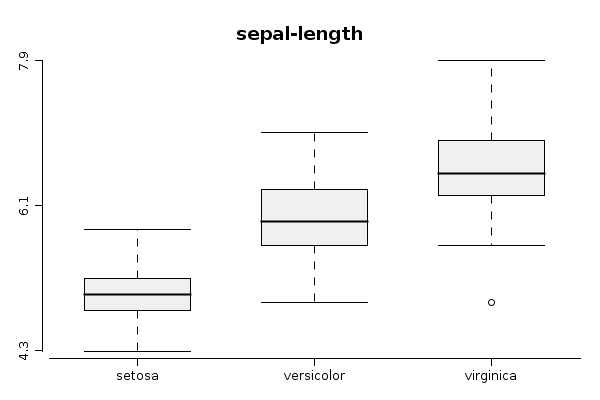
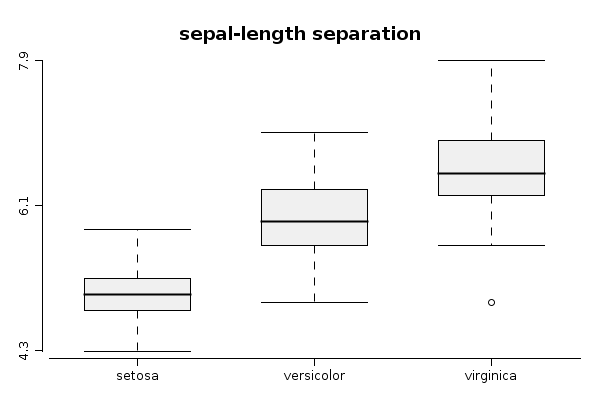
graphics manual page - scatter xy points

Changed region(s): [[0.3, 0.06, 0.72, 0.12]]

diff --git a/src/rapaio/graphics/opt/GOpts.java b/src/rapaio/graphics/opt/GOpts.java
@@ -53,6 +53,7 @@ public class GOpts implements Serializable {
         DEFAULTS.bins = gOpts -> -1;
         DEFAULTS.prob = gOpts -> false;
         DEFAULTS.points = gOpts -> 256;
+        DEFAULTS.labels = gOpts -> new String[]{""};
     }
 
     GOpts parent;
@@ -66,6 +67,7 @@ public class GOpts implements Serializable {
     SFunction<GOpts, Integer> binsDefault;
     SFunction<GOpts, Boolean> probDefault;
     SFunction<GOpts, Integer> pointsDefault;
+    SFunction<GOpts, String[]> labelsDefault;
 
     SFunction<GOpts, ColorPalette> palette;
     SFunction<GOpts, Color[]> color;
@@ -76,6 +78,7 @@ public class GOpts implements Serializable {
     SFunction<GOpts, Integer> bins;
     SFunction<GOpts, Boolean> prob;
     SFunction<GOpts, Integer> points;
+    SFunction<GOpts, String[]> labels;
 
     public GOpts apply(GOpt... options) {
         Arrays.stream(options).forEach(o -> o.apply(this));
@@ -92,7 +95,8 @@ public class GOpts implements Serializable {
                 opt -> opt.setAlpha(alpha),
                 opt -> opt.setBins(bins),
                 opt -> opt.setProb(prob),
-                opt -> opt.setPoints(points)
+                opt -> opt.setPoints(points),
+                opt -> opt.setLabels(labels)
         };
     }
 
@@ -337,6 +341,35 @@ public class GOpts implements Serializable {
         return null;
     }
 
+    public String[] getLabels() {
+        SFunction<GOpts, String[]> c = getUpLabels();
+        if (c == null)
+            c = getUpLabelsDefault();
+        if (c == null)
+            c = DEFAULTS.labels;
+        return c.apply(this);
+    }
+
+    public void setLabels(SFunction<GOpts, String[]> labels) {
+        this.labels = labels;
+    }
+
+    protected SFunction<GOpts, String[]> getUpLabels() {
+        if (labels != null)
+            return labels;
+        if (parent != null)
+            return parent.getUpLabels();
+        return null;
+    }
+
+    protected SFunction<GOpts, String[]> getUpLabelsDefault() {
+        if (labelsDefault != null)
+            return labelsDefault;
+        if (parent != null)
+            return parent.getUpLabelsDefault();
+        return null;
+    }
+
     public void setColor(SFunction<GOpts, Color[]> color) {
         this.color = color;
     }
@@ -383,5 +416,9 @@ public class GOpts implements Serializable {
 
     public void setPointsDefault(SFunction<GOpts, Integer> pointsDefault) {
         this.pointsDefault = pointsDefault;
+    }
+
+    public void setLabelsDefault(SFunction<GOpts, String[]> labels) {
+        this.labels = labelsDefault;
     }
 }

diff --git a/src/rapaio/graphics/plot/plotcomp/Legend.java b/src/rapaio/graphics/plot/plotcomp/Legend.java
@@ -24,28 +24,35 @@
 package rapaio.graphics.plot.plotcomp;
 
 import rapaio.graphics.base.Range;
-import rapaio.graphics.opt.ColorPalette;
+import rapaio.graphics.opt.GOpt;
+import rapaio.graphics.plot.Plot;
 import rapaio.graphics.plot.PlotComponent;
 
 import java.awt.*;
 import java.awt.geom.Rectangle2D;
+import java.util.stream.IntStream;
 
 /**
  * @author <a href="mailto:padreati@yahoo.com">Aurelian Tutuianu</a>
  */
-@Deprecated
 public class Legend extends PlotComponent {
+
+    private static final long serialVersionUID = 7360504551525942239L;
 
     private final double x;
     private final double y;
-    private final String[] labels;
-    private final int[] colors;
 
-    public Legend(double x, double y, String[] labels, int[] colors) {
+    public Legend(double x, double y, GOpt... opts) {
         this.x = x;
         this.y = y;
-        this.labels = labels;
-        this.colors = colors;
+        this.options.apply(opts);
+    }
+
+    @Override
+    public void initialize(Plot parent) {
+        super.initialize(parent);
+
+        options.setColorDefault(gOpts -> IntStream.range(1, 256).mapToObj(i -> options.getPalette().getColor(i)).toArray(Color[]::new));
     }
 
     @Override
@@ -53,6 +60,9 @@ public class Legend extends PlotComponent {
 
         // TODO I've commented that because it seems like it needs a better treatment
 //        g2d.setFont(MARKERS_FONT);
+
+        String[] labels = options.getLabels();
+
         double minHeight = Double.MAX_VALUE;
         for (String string : labels) {
             double height = g2d.getFontMetrics().getStringBounds(string, g2d).getHeight();
@@ -63,7 +73,7 @@ public class Legend extends PlotComponent {
         double ystart = parent.yScale(y);
 
         for (int i = 0; i < labels.length; i++) {
-            g2d.setColor(ColorPalette.STANDARD.getColor(colors[i]));
+            g2d.setColor(options.getColor(i));
             g2d.draw(new Rectangle2D.Double(xstart, ystart - minHeight / 3, size, 1));
             g2d.drawString(labels[i], (int) (xstart + size + size / 2), (int) (ystart));
             ystart += minHeight + 1;

diff --git a/manual-src/rapaio/manual/graphics/Graphics.java b/manual-src/rapaio/manual/graphics/Graphics.java
@@ -27,6 +27,7 @@ import rapaio.data.Frame;
 import rapaio.datasets.Datasets;
 import rapaio.graphics.base.Figure;
 import rapaio.graphics.base.ImageUtility;
+import rapaio.graphics.plot.plotcomp.Legend;
 import rapaio.printer.IdeaPrinter;
 import rapaio.sys.WS;
 
@@ -54,6 +55,18 @@ public class Graphics {
         fig = boxPlot(iris.var("sepal-length"), iris.var("class")).title("sepal-length separation");
         WS.draw(fig);
         ImageUtility.saveImage(fig, 600, 400, root + "graphics-boxplot-iris-sepal-length.png");
+
+
+        fig = points(iris.var("petal-length"), iris.var("petal-width"));
+        WS.draw(fig);
+        ImageUtility.saveImage(fig, 600, 400, root + "graphics-points-iris-1.png");
+
+
+        fig = points(iris.var("petal-length"), iris.var("petal-width"), color(iris.var("class")))
+                .add(new Legend(1.5, 2.2, labels("setosa", "versicolor", "virginica")));
+        WS.draw(fig);
+        ImageUtility.saveImage(fig, 600, 400, root + "graphics-points-iris-2.png");
+
 
     }
 }

diff --git a/src/rapaio/graphics/Plotter.java b/src/rapaio/graphics/Plotter.java
@@ -197,6 +197,10 @@ public final class Plotter {
         return opt -> opt.setPoints(gOpts -> points);
     }
 
+    public static GOpt labels(String... labels) {
+        return opt -> opt.setLabels(gOpts -> labels);
+    }
+
     public Plot hLine(double a, GOpt... opts) {
         return plot().add(new ABLine(true, a, opts));
     }

diff --git a/src/rapaio/graphics/plot/Plot.java b/src/rapaio/graphics/plot/Plot.java
@@ -200,4 +200,9 @@ public class Plot extends HostFigure {
         add(new MeshContour(mg, contour, fill, opts));
         return this;
     }
+
+    public Plot legend(int x, int y, GOpt... opts) {
+        add(new Legend(x, y, opts));
+        return this;
+    }
 }

diff --git a/manual/graphics/graphics.Md b/manual/graphics/graphics.Md
@@ -1,6 +1,3 @@
-* auto-gen TOC:
-{:toc}
-
 
 ## Introduction into data visualization using rapaio library
 
@@ -139,4 +136,35 @@ variable, and add a title*
  `.title("..")` adds a title to the box plot
 
 ![Box plots for the "sepal-length" variable, but discriminated by class](../images/graphics-boxplot-iris-sepal-length.png)
+
+## Points (XY Scatter plot)
+
+We can study the relation between two numerical variables by drawing one point for
+each instance.
+
+### Example 1
+
+**Scope**: *Study which is the relation between `petal-length` and `sepal-length`
+from `iris` data set.
+
+**Solution**:
+
+        WS.draw(points(iris.var("petal-length"), iris.var("petal-width")));
+
+![Scatter XY points for `petal-length` and `petal-width` variables]("../images/graphics-points-iris-1.png")
+
+### Example 2
+
+**Scope**: *Study which is the relation between `petal-length` and `sepal-length`
+from `iris` data set. Color each point with a different color corresponding with
+value from variable `class` and add a legend for colors.
+
+**Solution**:
+
+        WS.draw(points(iris.var("petal-length"), iris.var("petal-width"),
+            color(iris.var("class")))
+                .add(new Legend(1.5, 2.2,
+                labels("setosa", "versicolor", "virginica"))));
+
+![Scatter XY points for `petal-length` and `petal-width` variables with colors and legend]("../images/graphics-points-iris-2.png")
 
